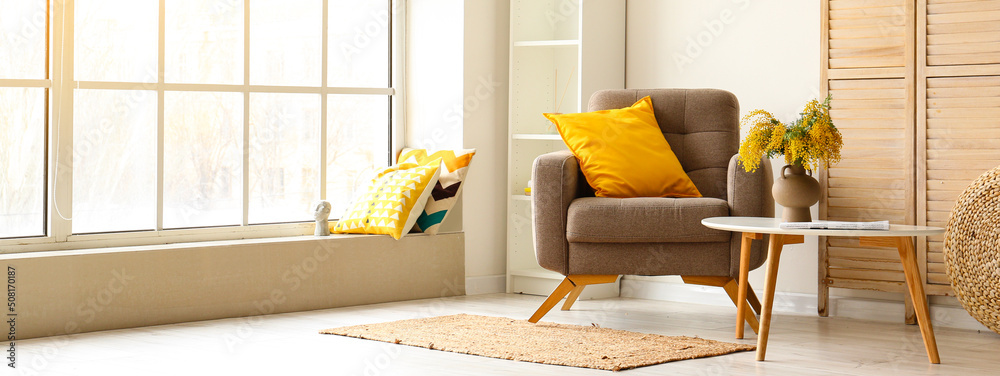
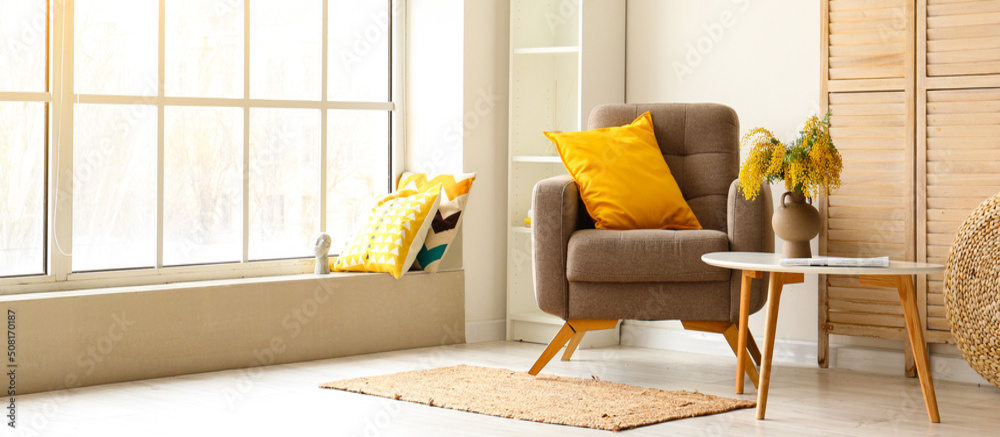
arreglado el carousel

diff --git a/src/componentes/Inicio/Inicio.jsx b/src/componentes/Inicio/Inicio.jsx
@@ -79,7 +79,7 @@ function Catalogo() {
             <NavbarCliente />
             {/**********************************carroulsse******************************************************* */}
 
-            <div style={{ position: 'relative', width: '100%', height: '400px', overflow: 'hidden' }}>
+            <div style={{ position: 'relative', width: '100%',overflow: 'hidden' }}>
 
                 <img
                     src={images[index]}
@@ -87,7 +87,6 @@ function Catalogo() {
                     style={{
                         width: '100%',      // o '100%' si quieres que se adapte al contenedor
                         height: 'auto',     // puedes ajustarlo según necesites
-                        position: 'absolute',
                         bottom: 0,
                         left: 0,
 
